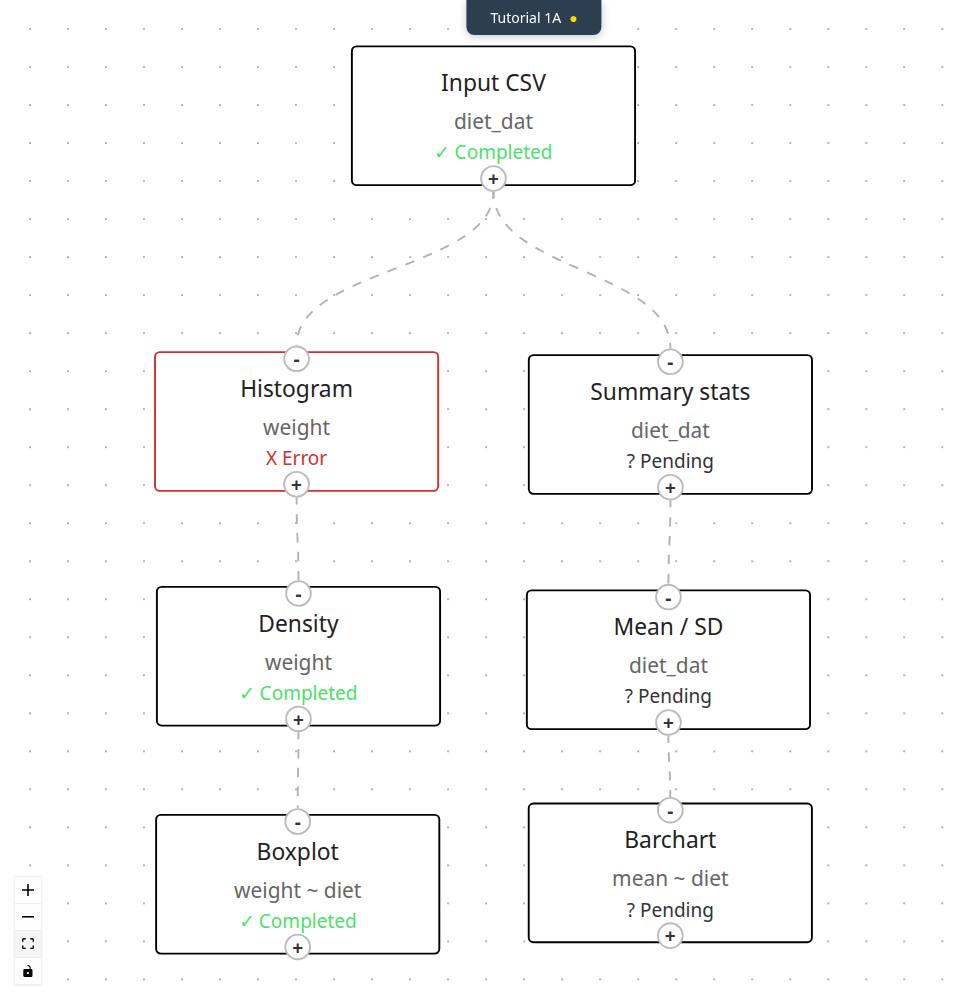
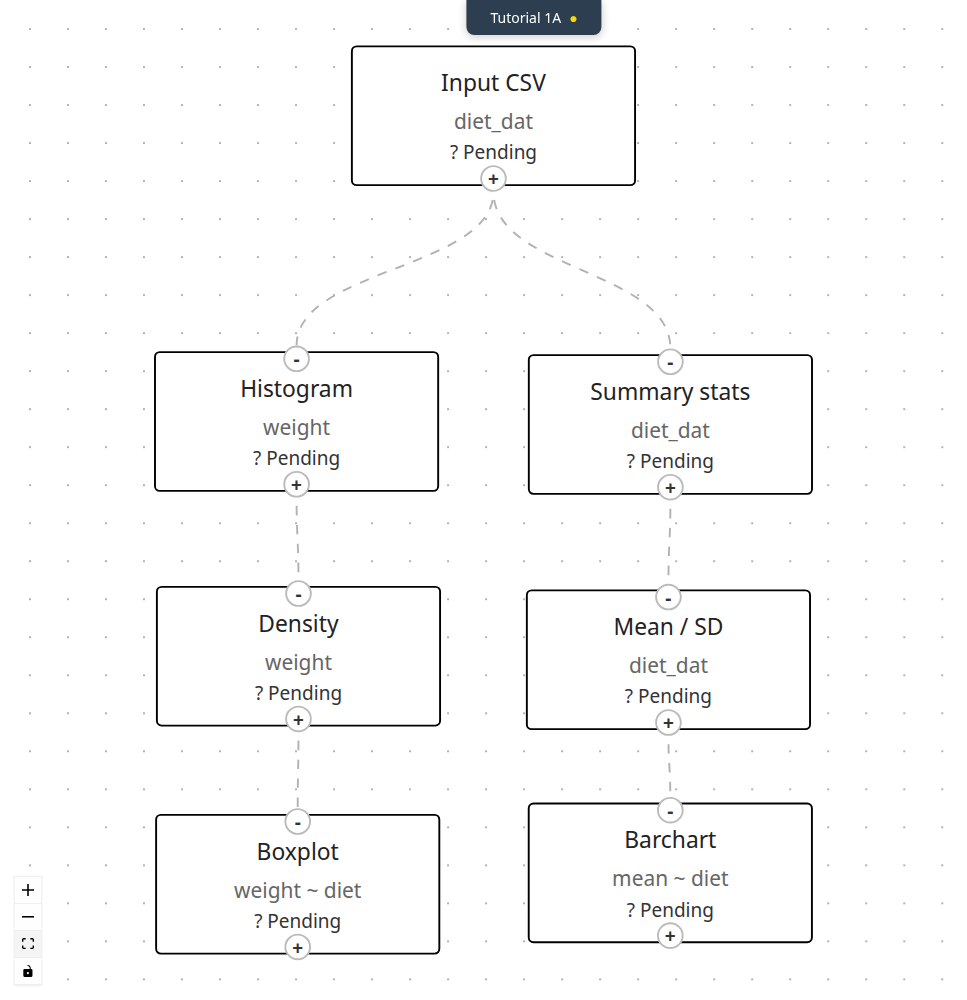
Workflow CSV and Histogram now captured with Pending start

diff --git a/playwright/tests/tutorial1a.screenshots.spec.ts b/playwright/tests/tutorial1a.screenshots.spec.ts
@@ -20,14 +20,77 @@ test('capture tutorial 1a workflow and nodes', async ({ page }) => {
     .filter({ has: page.getByRole('heading', { name: /Tutorial 1a/i }) })
     .first();
   await expect(card).toBeVisible({ timeout: 15_000 });
+  await page.waitForLoadState('networkidle', { timeout: 15_000 });
   await card.getByRole('button', { name: /^Open/ }).click();
   const canvas = page.locator('.react-flow');
   await expect(canvas).toBeVisible({ timeout: 15_000 });
 
-  // Capture the loaded workflow before selecting or running a node.
+  // Remove only the tutorial dataset using the project's storage controls.
   const histogram = canvas.locator('.react-flow__node').filter({ hasText: /histogram/i }).first();
   await expect(histogram).toBeVisible({ timeout: 15_000 });
   await expect(page.getByText('Project loaded successfully')).toBeHidden({ timeout: 15_000 });
+
+  const userMenuButton = page.locator('.panel-left .user-button');
+  await userMenuButton.click();
+  const storageRequest = page.waitForRequest(
+    (request) => request.method() === 'GET' && new URL(request.url()).pathname === '/storage_objects',
+    { timeout: 15_000 },
+  );
+  await page.getByRole('button', { name: /manage project storage/i }).click();
+  const storageFetch = await storageRequest;
+  const storageResult = await storageFetch.response();
+  if (!storageResult) {
+    throw new Error(`Could not load project storage: ${storageFetch.failure()?.errorText || 'request failed'}`);
+  }
+  expect(storageResult.ok(), 'Could not load project storage').toBe(true);
+  const storageData = await storageResult.json();
+  if (storageData.error || !Array.isArray(storageData.objects)) {
+    throw new Error(`Could not load project storage: ${storageData.error || 'invalid object list'}`);
+  }
+
+  const storage = page.getByRole('heading', { name: 'Stored Objects' }).locator('..');
+  await expect(storage.getByTitle('Delete this object')).toHaveCount(storageData.objects.length);
+  await page.waitForLoadState('networkidle', { timeout: 15_000 });
+  const dataset = storage.getByText('diet_dat', { exact: true });
+  const objectKey = (key: string | string[]) => Array.isArray(key) ? key[0] : key;
+  if (storageData.objects.some((object: { key: string | string[] }) => objectKey(object.key) === 'diet_dat')) {
+    const confirmation = page.waitForEvent('dialog');
+    const deleteRequest = page.waitForRequest(
+      (request) => request.method() === 'POST' && new URL(request.url()).pathname === '/delete_object',
+      { timeout: 15_000 },
+    );
+    const deleteClick = dataset.locator('xpath=../..').getByTitle('Delete this object').click();
+    const dialog = await confirmation;
+    expect(dialog.type()).toBe('confirm');
+    expect(dialog.message()).toBe('Delete "diet_dat"? This action cannot be undone.');
+    await dialog.accept();
+    await deleteClick;
+    const deletionFetch = await deleteRequest;
+    const result = await deletionFetch.response();
+    if (!result) {
+      throw new Error(`Could not delete diet_dat: ${deletionFetch.failure()?.errorText || 'request failed'}`);
+    }
+    expect(result.ok(), 'Could not delete diet_dat').toBe(true);
+    const deletion = await result.json();
+    if (!deletion.ok || objectKey(deletion.key) !== 'diet_dat') {
+      throw new Error(`Could not delete diet_dat: ${deletion.error || 'unexpected response'}`);
+    }
+    const warning = deletion.warning ? objectKey(deletion.warning) : undefined;
+    if (warning) console.warn('Project storage:', warning);
+    await expect(dataset).toHaveCount(0);
+  }
+  await userMenuButton.click();
+
+  // Capture the workflow only when every node is Pending, before executing any node.
+  const workflowNodes = canvas.locator('.react-flow__node');
+  const nodeCount = await workflowNodes.count();
+  expect(nodeCount, 'The workflow contains no nodes').toBeGreaterThan(0);
+  for (let index = 0; index < nodeCount; index++) {
+    await expect(
+      workflowNodes.nth(index),
+      'Every workflow node must be Pending before the workflow screenshot',
+    ).toContainText('? Pending');
+  }
   await canvas.locator('.react-flow__controls-fitview').click();
   await canvas.screenshot({
     path: path.join(imagesDir, 'tutorial_1a_workflow.png'),

diff --git a/README.md b/README.md
@@ -21,4 +21,4 @@ The workflow, Input CSV, and Histogram screenshots in `tutorials/figs/` can be r
 3. Install dependencies and the Chromium browser once with `npm install` and `npx playwright install chromium`.
 4. Run `npm run screenshots`.
 
-The test uploads `tutorials/data_workflows/chick_diet.csv` as `diet_dat` in the Tutorial 1A project, replacing any existing dataset with that name. It captures the workflow, Input CSV (`tutorial_1a_inputcsv_*_panel.png`), and Histogram (`tutorial_1a_histogram_*_panel.png`) images. The Input CSV screenshots share the height of the tallest panel. Render the Quarto page and review the resulting images before committing them.
+The test deletes `diet_dat` from the Tutorial 1A project's storage if it exists, then checks that all nodes are Pending before capturing the workflow. If the stored object is missing but its key remains, the test reports a warning when the stale key is removed. Deletion resets only nodes using that dataset; the test fails if any nodes remain non-Pending. It uploads `tutorials/data_workflows/chick_diet.csv` as `diet_dat` and runs the Input CSV and Histogram nodes to capture their panels. These operations change project data and may be autosaved; use a dedicated test project. The Input CSV screenshots share the height of the tallest panel. Render the Quarto page and review the resulting images before committing them.
